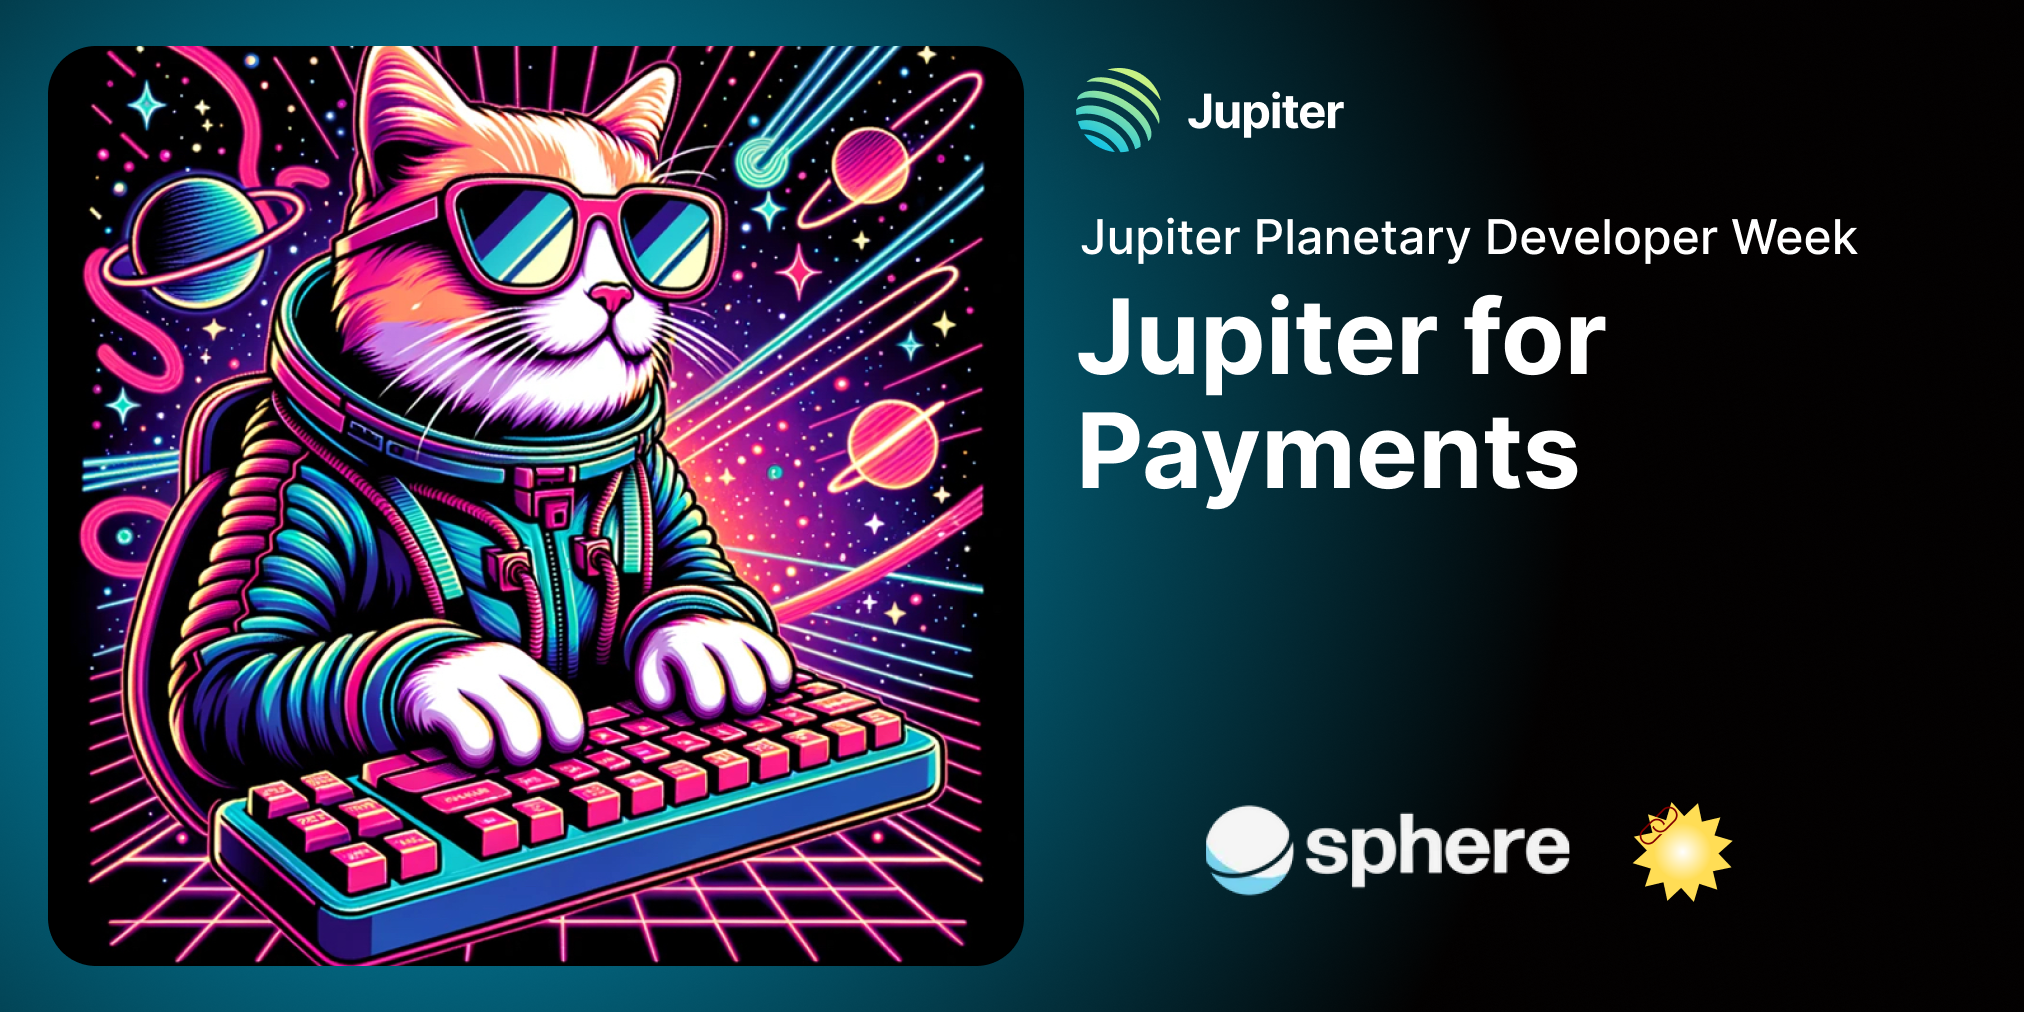
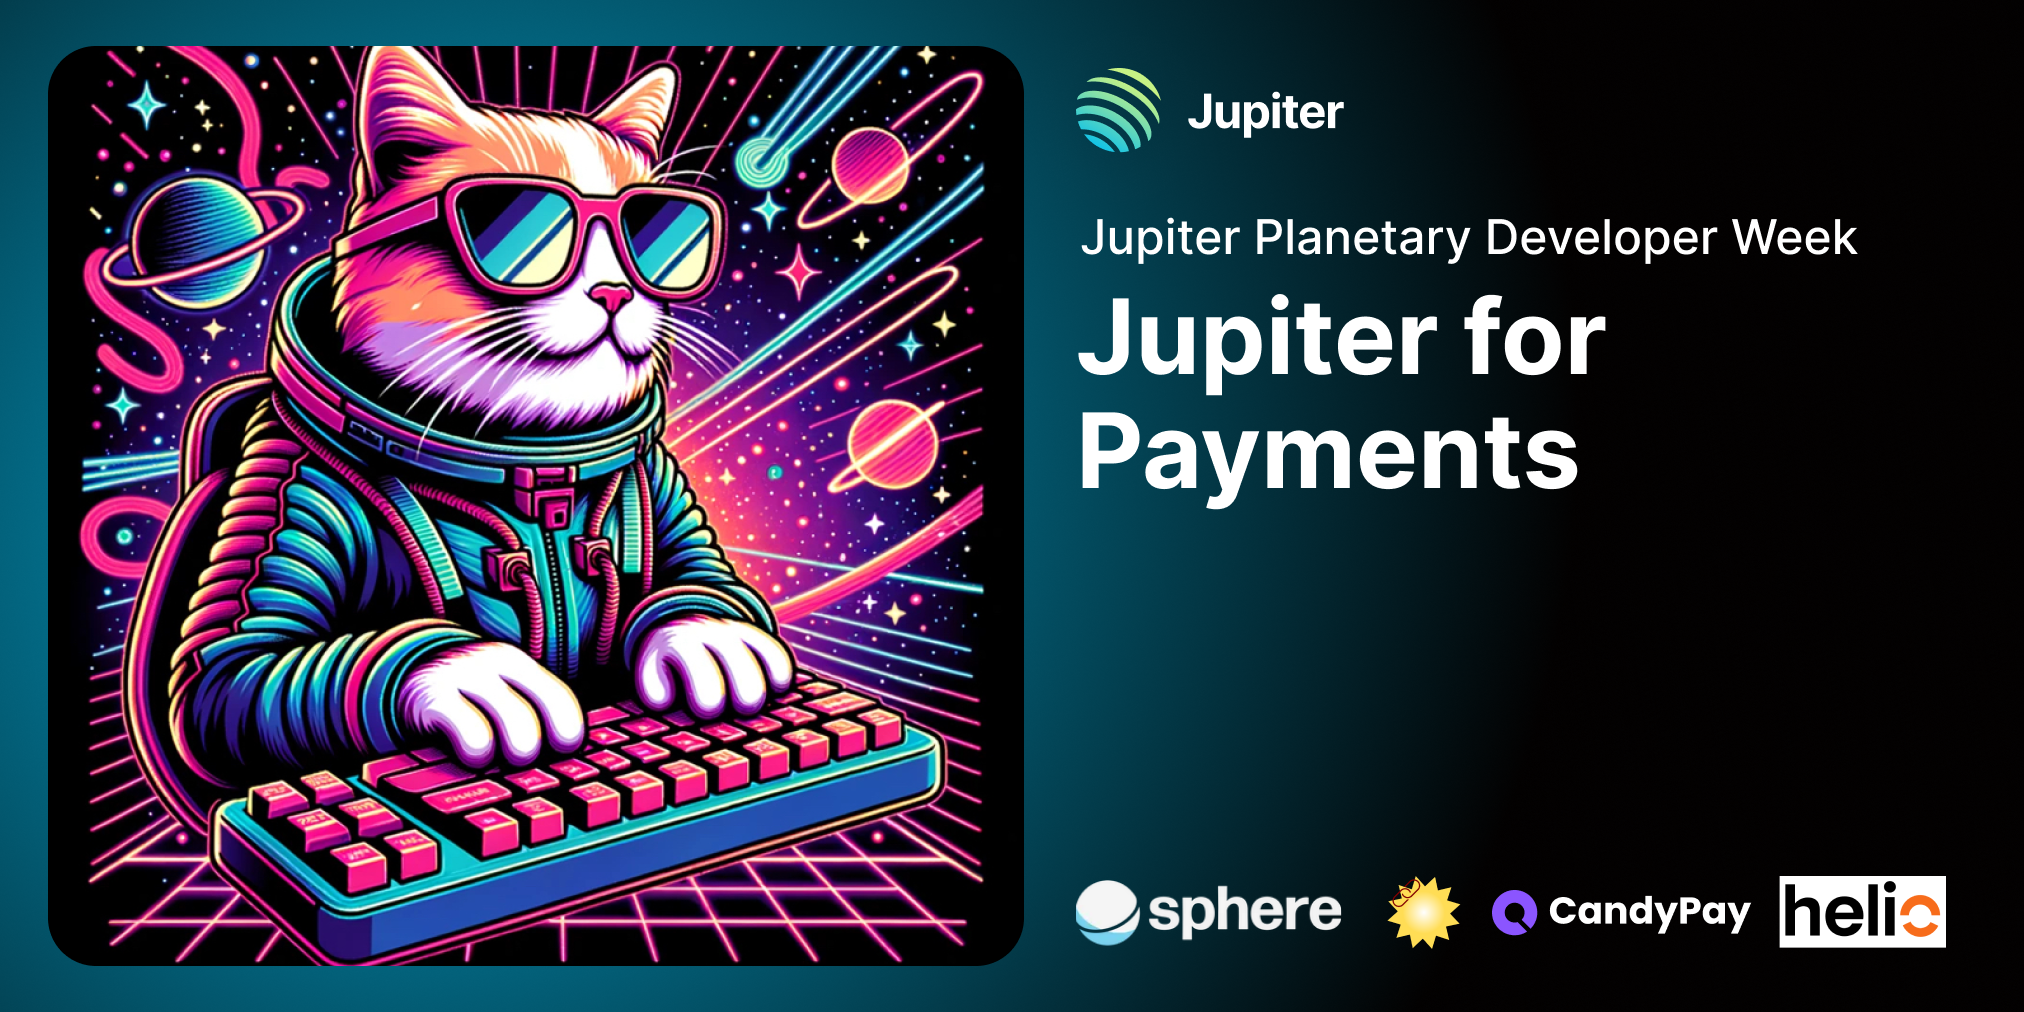
updated day2 blogpost

Changed region(s): [[0.5292, 0.7964, 0.9649, 0.9496]]

diff --git a/blog/2023-10-23-jupiter-planetary-developer-week/index.md b/blog/2023-10-23-jupiter-planetary-developer-week/index.md
@@ -209,10 +209,27 @@ Check out this demo of a user buying a cup of coffee priced in USD with their SA
 
 https://twitter.com/JupiterExchange/status/1638799925348794369 
 
+
+### ExactOut Showcase # 3 - Helio
+
+Helio, the leading payments app for Solana, powers sales for +3,000 creators & merchants who sell NFTs, digital content, e-commerce and more with the power of blokchain payments. Helio partnered with Jupiter to power seamless token swaps inside the Helio checkout flow. Buyers spend SOL or any token, merchants always receive USDC or their asset of choice.
+
+`"The future of commerce is based on lightning fast blockchain payments and one of the key advantages is that buyers can spend any token while merchants instantly receive their own currency of choice. Jupiter has abstracted the complexity of a DEX and given us a few simple lines of code to help us deliver on this promise"` **CTO - Jim Walker**
+
+![Helio](heliodemo.gif)
+
+<!-- ### ExactOut Showcase # 4 - Sphere Pay
+Sphere is an end-to-end payments API for digital currencies, offering on-ramp, multi-chain and fiat payments, to off-ramp in a single integration.
+
+Sphere uses Jupiter to enable “universal settlement”, where customers can pay in whichever currency they want, and merchants will receive any currency of their choice — with Jupiter handling the ExactOut swap behind the scenes at the best possible rates.
+
+Below is an example of how Sphere users can select to pay in any currency of their choice, with merchants receiving any currency they wish. Thanks to v6, these swaps are blazing fast, and shared ATAs and versioned transactions/lookup tables allow all of this magic to be bundled into a single transaction. -->
+
+
 ### Ending Words
 
 With Jupiter providing the essential infrastructure support for payments, we see Jupiter playing an important role in helping support the payment and fees infrastructure of Solana. 
 
-If you have any feedback and product improvements, do feel free to swing by and share them on our [Discord](https://discord.gg/jup)
+If you have any feedback and product improvements, do feel free to swing by and share them on our [**Discord**](https://discord.gg/jup)!
 
 **Stay tuned for Day 3 of the Jupiter Planetary Developer Week where we are going to talk about the much anticipated Terminal v2!**
